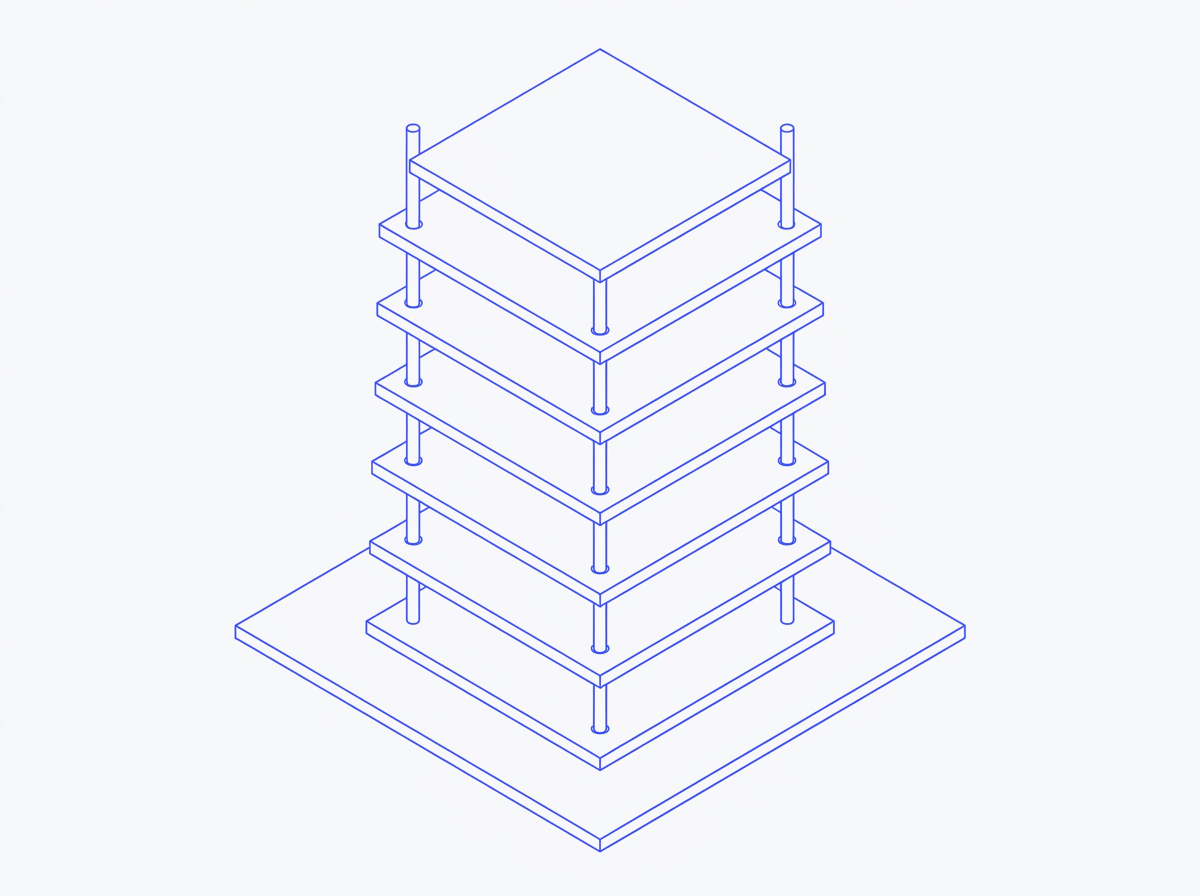
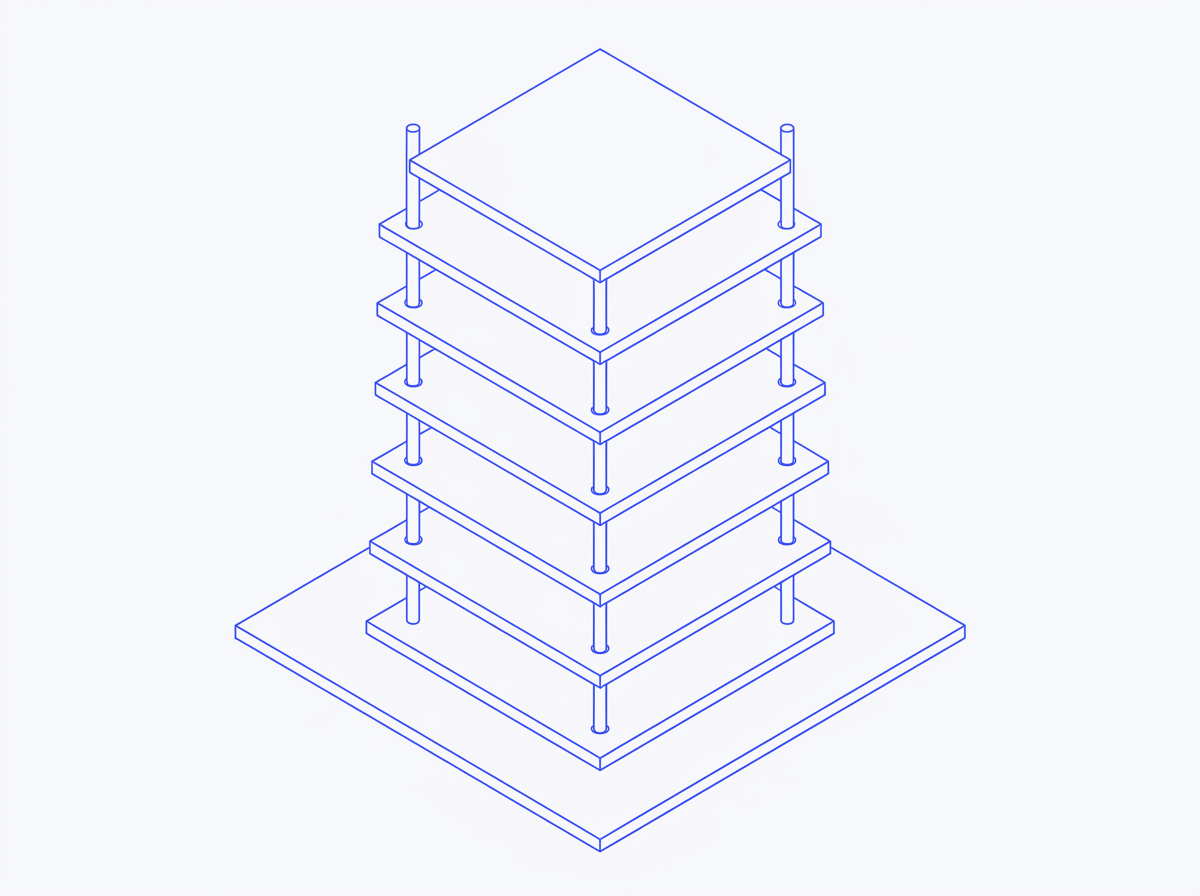
fix(plates): lossless encode, registry corrections, post-encode gate
The two pilot plates shipped as lossy WebP at -q 88, which moved the ink the
recolor step had set exactly: the darkest pixel measured #4049C8 and #3F49CC
instead of #2E47F1, and chroma fell to 72.8 and 70.7 against a gate of 80. The
accept notes were taken on the pre-encode PNGs, so nothing caught it.

Re-encoded both from the same PNGs with cwebp -lossless -m 6. The shipped VP8L
files now measure the darkest pixel at exactly #2E47F1 and the lightest at
exactly #FBFBFB, chroma 86.2 and 82.4, at 113,758 and 236,648 bytes.

Spec gets the rule that would have caught it: acceptance gates run on the file
that ships, not on a pre-encode artifact.

Two registry readings were also wrong. FIG_021 is seven uniform plates on a
wider base panel, not six tapering ones, and the alt text is corrected to
match. FIG_022's fourth plate-like face is the intake tray's raised back wall,
not the gate block's leading face.

diff --git a/app/case-studies/[slug]/page.tsx b/app/case-studies/[slug]/page.tsx
@@ -112,7 +112,7 @@ const chapterPlates: Record<string, ChapterPlate> = {
     width: 1200,
     height: 896,
     subject: "LAYER STACK",
-    alt: "Blueprint rendering of six flat plates exploded along a vertical axis on four guide posts.",
+    alt: "Blueprint rendering of seven flat plates exploded along a vertical axis on four guide posts above a wider base panel.",
     caption: "Every layer of the operating system existed as something written down.",
     /* Label copy: the chapter intro names the definitions, the routing rules,
        and the cadence put on top, in that order from the base up. */

diff --git a/FIGURES.md b/FIGURES.md
@@ -45,7 +45,7 @@ a new figure always takes the next free number.
 
 | FIG_020 | Portrait | `/about` | The desk in Chicago where the work in this manual was built | Photographic plate rather than a drawing. The desk illustration re-screened as a blueprint-on-paper halftone duotone so it sits in the same ink as the figures. |
 
-| FIG_021 | Layer stack | Chapter, revenue operating system | The operating layers as an assembly: each one defined and stacked in order, none of them free-standing | Rendered plate rather than a hand-drawn figure. Six flat plates exploded along one vertical axis on four guide posts, blueprint line work on flat paper, remapped to the site ink. Generated label-free; the three labels are DOM text placed by `PlateLabels`. Pairs with FIG_008 and never replaces it. Renders as authored in both themes, with no duotone. |
+| FIG_021 | Layer stack | Chapter, revenue operating system | The operating layers as an assembly: each one defined and stacked in order, none of them free-standing | Rendered plate rather than a hand-drawn figure. Seven uniform flat plates exploded along one vertical axis on four guide posts above a wider base panel, eight slabs in all, no taper from bottom to top. Blueprint line work on flat paper, remapped to the site ink. Generated label-free; the three labels are DOM text placed by `PlateLabels`. Pairs with FIG_008 and never replaces it. Renders as authored in both themes, with no duotone. |
 | FIG_022 | Gate | Chapter, governed AI operating layer | The human approval step every run passed, and the record each one left | Rendered plate rather than a hand-drawn figure. An intake tray, three sorting plates, a hinged gate block with a lever arm, and a release chute exploded above one long tray, blueprint line work on flat paper, remapped to the site ink. Generated label-free; the three labels are DOM text placed by `PlateLabels`. Pairs with FIG_009 and never replaces it. Renders as authored in both themes, with no duotone. |
 
 ## Generation log
@@ -89,15 +89,30 @@ findings. What the pixels said, reproduced with `scripts/plate-measure.py`:
 The lesson is procedural, not cosmetic: an accept note that describes an image
 is not evidence. Accept notes from here carry measured values.
 
-| FIG_021 | v3 blueprint | 1 | Accepted | Ink hue 297.5° (ref 300.5°), chroma 86.2 after the remap with the darkest pixel exactly `#2E47F1`. Ground chroma 1.5, flatness 0.7%, corner falloff 0.0% across all four blocks. Stroke median 3.0px, coverage 2.17%, object 60.9% of frame width on symmetric margins. Checked at 1:1 on the raw generation before the remap: no glyph, no callout tick, no leader line, no arrow, no dimension mark, no light source, no cast shadow. |
+| FIG_021 | v3 blueprint | 1 | Accepted | Measured pre-encode; see the round-3 correction below for the shipped-file numbers. Ink hue 297.5° (ref 300.5°), chroma 86.2 after the remap with the darkest pixel exactly `#2E47F1`. Ground chroma 1.5, flatness 0.7%, corner falloff 0.0% across all four blocks. Stroke median 3.0px, coverage 2.17%, object 60.9% of frame width on symmetric margins. Checked at 1:1 on the raw generation before the remap: no glyph, no callout tick, no leader line, no arrow, no dimension mark, no light source, no cast shadow. |
 | FIG_022 | v3 blueprint | 1 | Rejected | Ground and type were clean, but the register missed the pair: stroke median 5.0px against FIG_021's 3.0px and object width 73.6% against 60.9%. Held to the same subject line and re-rolled for scale and line weight. |
-| FIG_022 | v3 blueprint | 2 | Accepted | Ink hue 296.7°, chroma 82.4 after the remap with the darkest pixel exactly `#2E47F1`. Ground chroma 1.5, flatness 1.0%, corner falloff 0.0%. Stroke median 3.0px, identical to FIG_021; coverage 1.95% against 2.17%; object 58.3% of frame width against 60.9%, margins symmetric. The pair locks on every axis. Checked at 1:1 on the raw generation: no glyph, no annotation mark, no light source, no cast shadow. The subject reads as intake tray, three sorting plates, hinged gate block with lever arm, chute, and the long tray beneath; a fourth plate-like form is the gate block's leading face rather than a fourth sorting plate. |
+| FIG_022 | v3 blueprint | 2 | Accepted | Measured pre-encode; see the round-3 correction below for the shipped-file numbers and for the fourth-face reading. Ink hue 296.7°, chroma 82.4 after the remap with the darkest pixel exactly `#2E47F1`. Ground chroma 1.5, flatness 1.0%, corner falloff 0.0%. Stroke median 3.0px, identical to FIG_021; coverage 1.95% against 2.17%; object 58.3% of frame width against 60.9%, margins symmetric. The pair locks on every axis. Checked at 1:1 on the raw generation: no glyph, no annotation mark, no light source, no cast shadow. The subject reads as intake tray, three sorting plates, hinged gate block with lever arm, chute, and the long tray beneath; a fourth plate-like form is the gate block's leading face rather than a fourth sorting plate. |
 
 Both v3 plates went through the two-ink remap in `scripts/plate-recolor.py`
 before encoding. It is a deterministic colour step and is recorded here because
 it is part of how these files were made: it moves the two endpoints and cannot
 add, remove, or reshape a mark. Zero-type, flat light, and subject were all
 judged on the raw generation, before the remap ran.
+
+**Correction, round 3.** A judge round re-ran the gates against the files in
+`public/case-studies/` rather than the pre-encode PNGs and found two things the
+accept notes above got wrong. The rows stay as written; these are the numbers
+and the readings that hold.
+
+| Note as written | Shipped file |
+|---|---|
+| FIG_021 "chroma 86.2, darkest pixel exactly `#2E47F1`" | True of the pre-encode PNG. The file first shipped was a lossy WebP at `-q 88`, a `VP8 ` chunk, and it measured a darkest pixel of `#4049C8` at chroma 72.8 — under the gate of 80. Re-encoded with `cwebp -lossless -m 6`: the shipped `VP8L` file now measures ink hue 297.5°, chroma 86.2, darkest pixel exactly `#2E47F1`, lightest exactly `#FBFBFB`, ground `#F7F8FB` at chroma 1.5, flatness 0.7%, corner falloff 0.0%, stroke median 3.0px, coverage 2.17%, object 60.9% of frame width. 113,758 bytes. |
+| FIG_022 "chroma 82.4, darkest pixel exactly `#2E47F1`" | Same failure, same fix. The lossy file measured `#3F49CC` at chroma 70.7. The shipped `VP8L` file measures ink hue 296.7°, chroma 82.4, darkest pixel exactly `#2E47F1`, lightest exactly `#FBFBFB`, ground `#F8F8FB` at chroma 1.5, flatness 1.0%, corner falloff 0.0%, stroke median 3.0px, coverage 1.95%, object 58.3% of frame width. 236,648 bytes. |
+| FIG_021 "six flat plates … widest at the bottom, smallest at the top" | The image carries seven uniform plates on four guide posts above a wider base panel, eight slabs in all, and there is no taper: every stacked plate is the same size. The registry row above is corrected to match. The subject line as written was not what the model returned, and the plate was accepted on the drawing rather than on the count. |
+| FIG_022 "a fourth plate-like form is the gate block's leading face" | It is the intake tray's raised back wall. The tray at the left of the frame has a tall panel standing up from its back edge, and that panel is what reads as a fourth sorting plate. The gate block sits further along the axis and its faces are part of the housing. Three sorting plates is still the correct count. |
+
+The procedural lesson, added to the spec: acceptance gates run on the file that
+ships. A pre-encode measurement describes an artifact no reader receives.
 
 ## Reserved
 

diff --git a/docs/superpowers/specs/2026-08-06-visual-elevation-design.md b/docs/superpowers/specs/2026-08-06-visual-elevation-design.md
@@ -338,6 +338,25 @@ and figure labels are the same type at the same weight in the same ink.
   and that is the number a reader feels. **Repo weight** is all plates plus
   both loop variants, roughly 8.6MB, a repository-size concern rather than a
   page-performance one.
+- **Lossless, not "near-lossless".** `cwebp -lossless -m 6` is the encode. A
+  lossy WebP is a `VP8 ` chunk and it moves the ink: the round-3 pair shipped
+  at `-q 88` and the darkest pixel measured `#4049C8` and `#3F49CC` instead of
+  exactly `#2E47F1`, dropping chroma to 72.8 and 70.7 against a gate of 80. The
+  exact endpoints the remap sets are the thing being shipped, so the encoder
+  is not allowed to approximate them. Check the chunk: bytes 12–16 of the file
+  must read `VP8L`.
+
+### The post-encode measurement pass
+
+**Every acceptance gate runs on the file that ships, not on a pre-encode
+artifact.** The remap is exact and the pre-encode PNG will always measure
+clean; that is not evidence, because the reader never receives the PNG. A
+generation is judged on the raw output (zero-type, flat-light, subject), and
+the colour, ground, register, and size gates in the table above are then
+re-run on the encoded WebP sitting in `public/case-studies/`. A registry row
+records the **shipped-file** numbers. Round 3 accepted two plates on PNG
+measurements and shipped lossy WebPs that failed the ink-chroma gate, which is
+exactly the failure this rule closes.
 
 ### Accessibility contract
 
